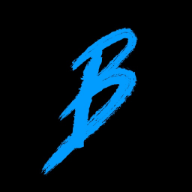
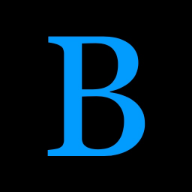
updated styles

Changed region(s): [[0.2188, 0.125, 0.7812, 0.9375]]

diff --git a/client/public/index.html b/client/public/index.html
@@ -16,14 +16,7 @@
     <link rel="preconnect" href="https://fonts.googleapis.com" />
     <link rel="preconnect" href="https://fonts.gstatic.com" crossorigin />
     <link
-      href="https://fonts.googleapis.com/css2?family=Nunito:wght@200;300;400&display=swap"
-      rel="stylesheet"
-    />
-    <!--  -->
-    <link rel="preconnect" href="https://fonts.googleapis.com" />
-    <link rel="preconnect" href="https://fonts.gstatic.com" crossorigin />
-    <link
-      href="https://fonts.googleapis.com/css2?family=Dancing+Script&display=swap"
+      href="https://fonts.googleapis.com/css2?family=Alegreya:wght@400;600&family=Nunito:wght@200&display=swap"
       rel="stylesheet"
     />
     <!-- Global site tag (gtag.js) - Google Analytics -->

diff --git a/client/src/components/Header/styles.sass b/client/src/components/Header/styles.sass
@@ -13,7 +13,7 @@ header
   width: 100vw
   height: 64px
   h1
-    font-family: 'Dancing Script', cursive;
+    font-family: 'Alegreya', serif;
     color: $blue
   .active
     color: $blue

diff --git a/client/src/components/Header/styles.css b/client/src/components/Header/styles.css
@@ -17,7 +17,7 @@ header {
 }
 
 header h1 {
-  font-family: 'Dancing Script', cursive;
+  font-family: 'Alegreya', serif;
   color: #019CFE;
 }
 
